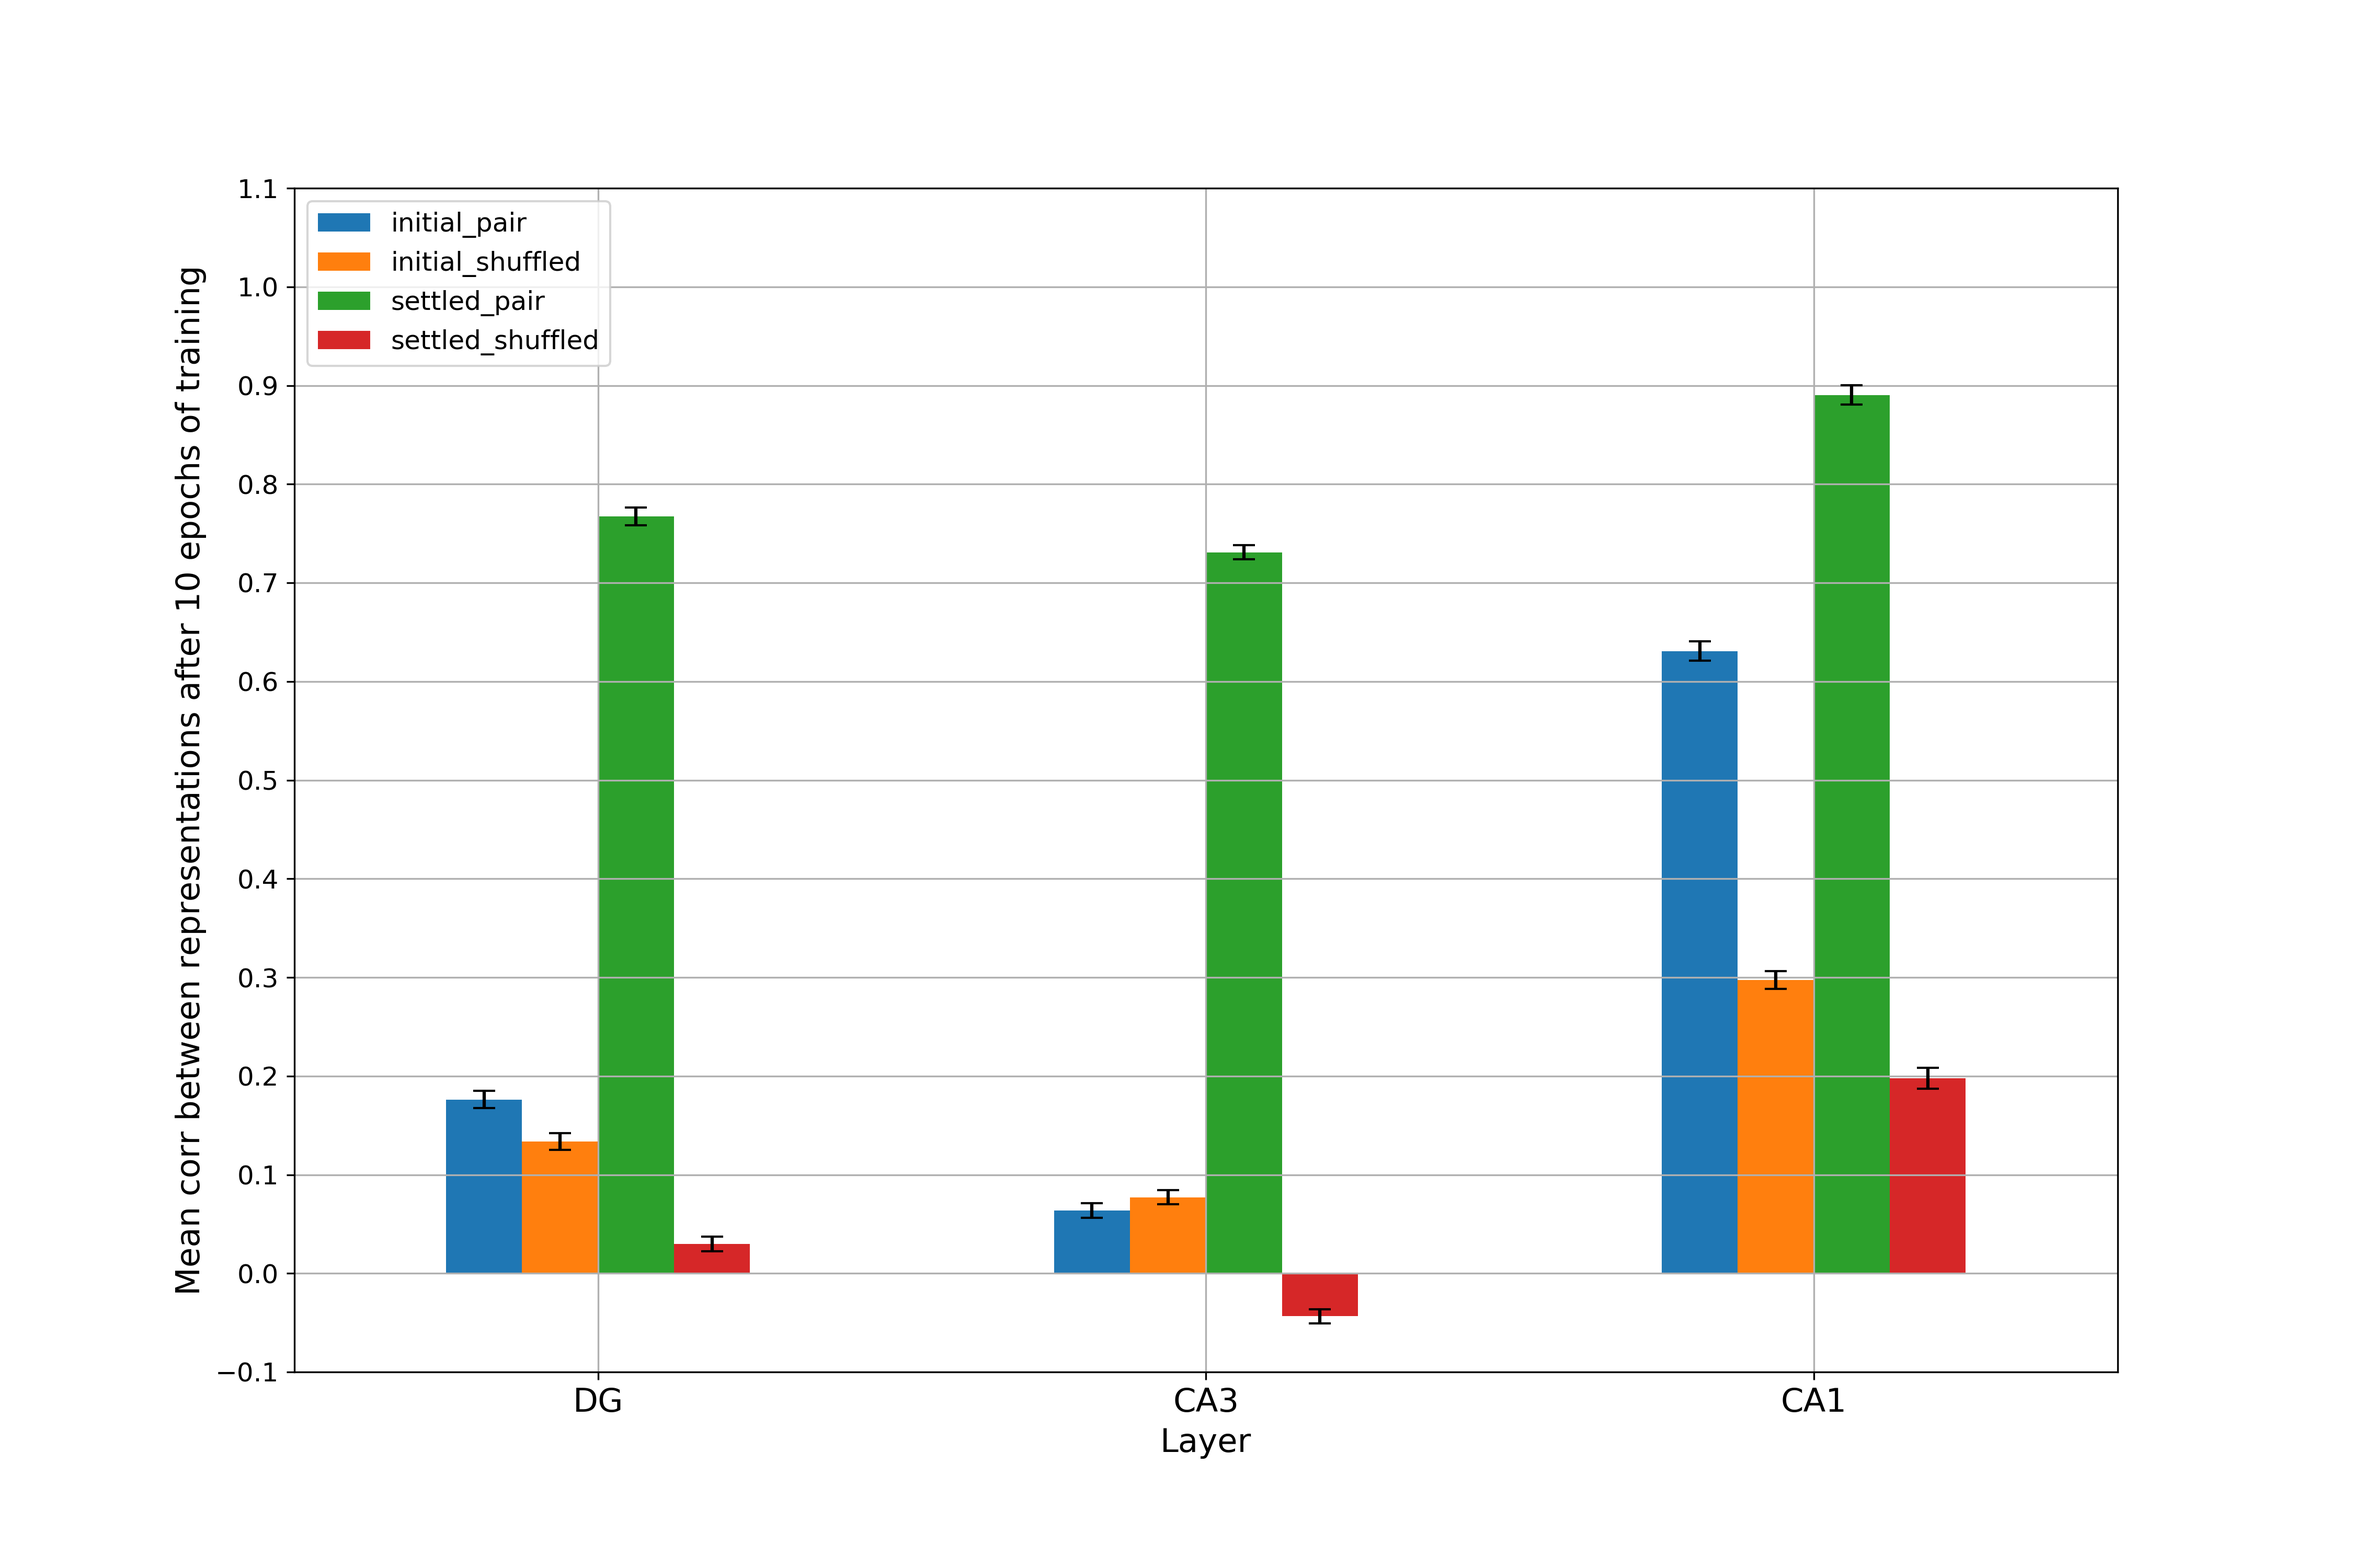
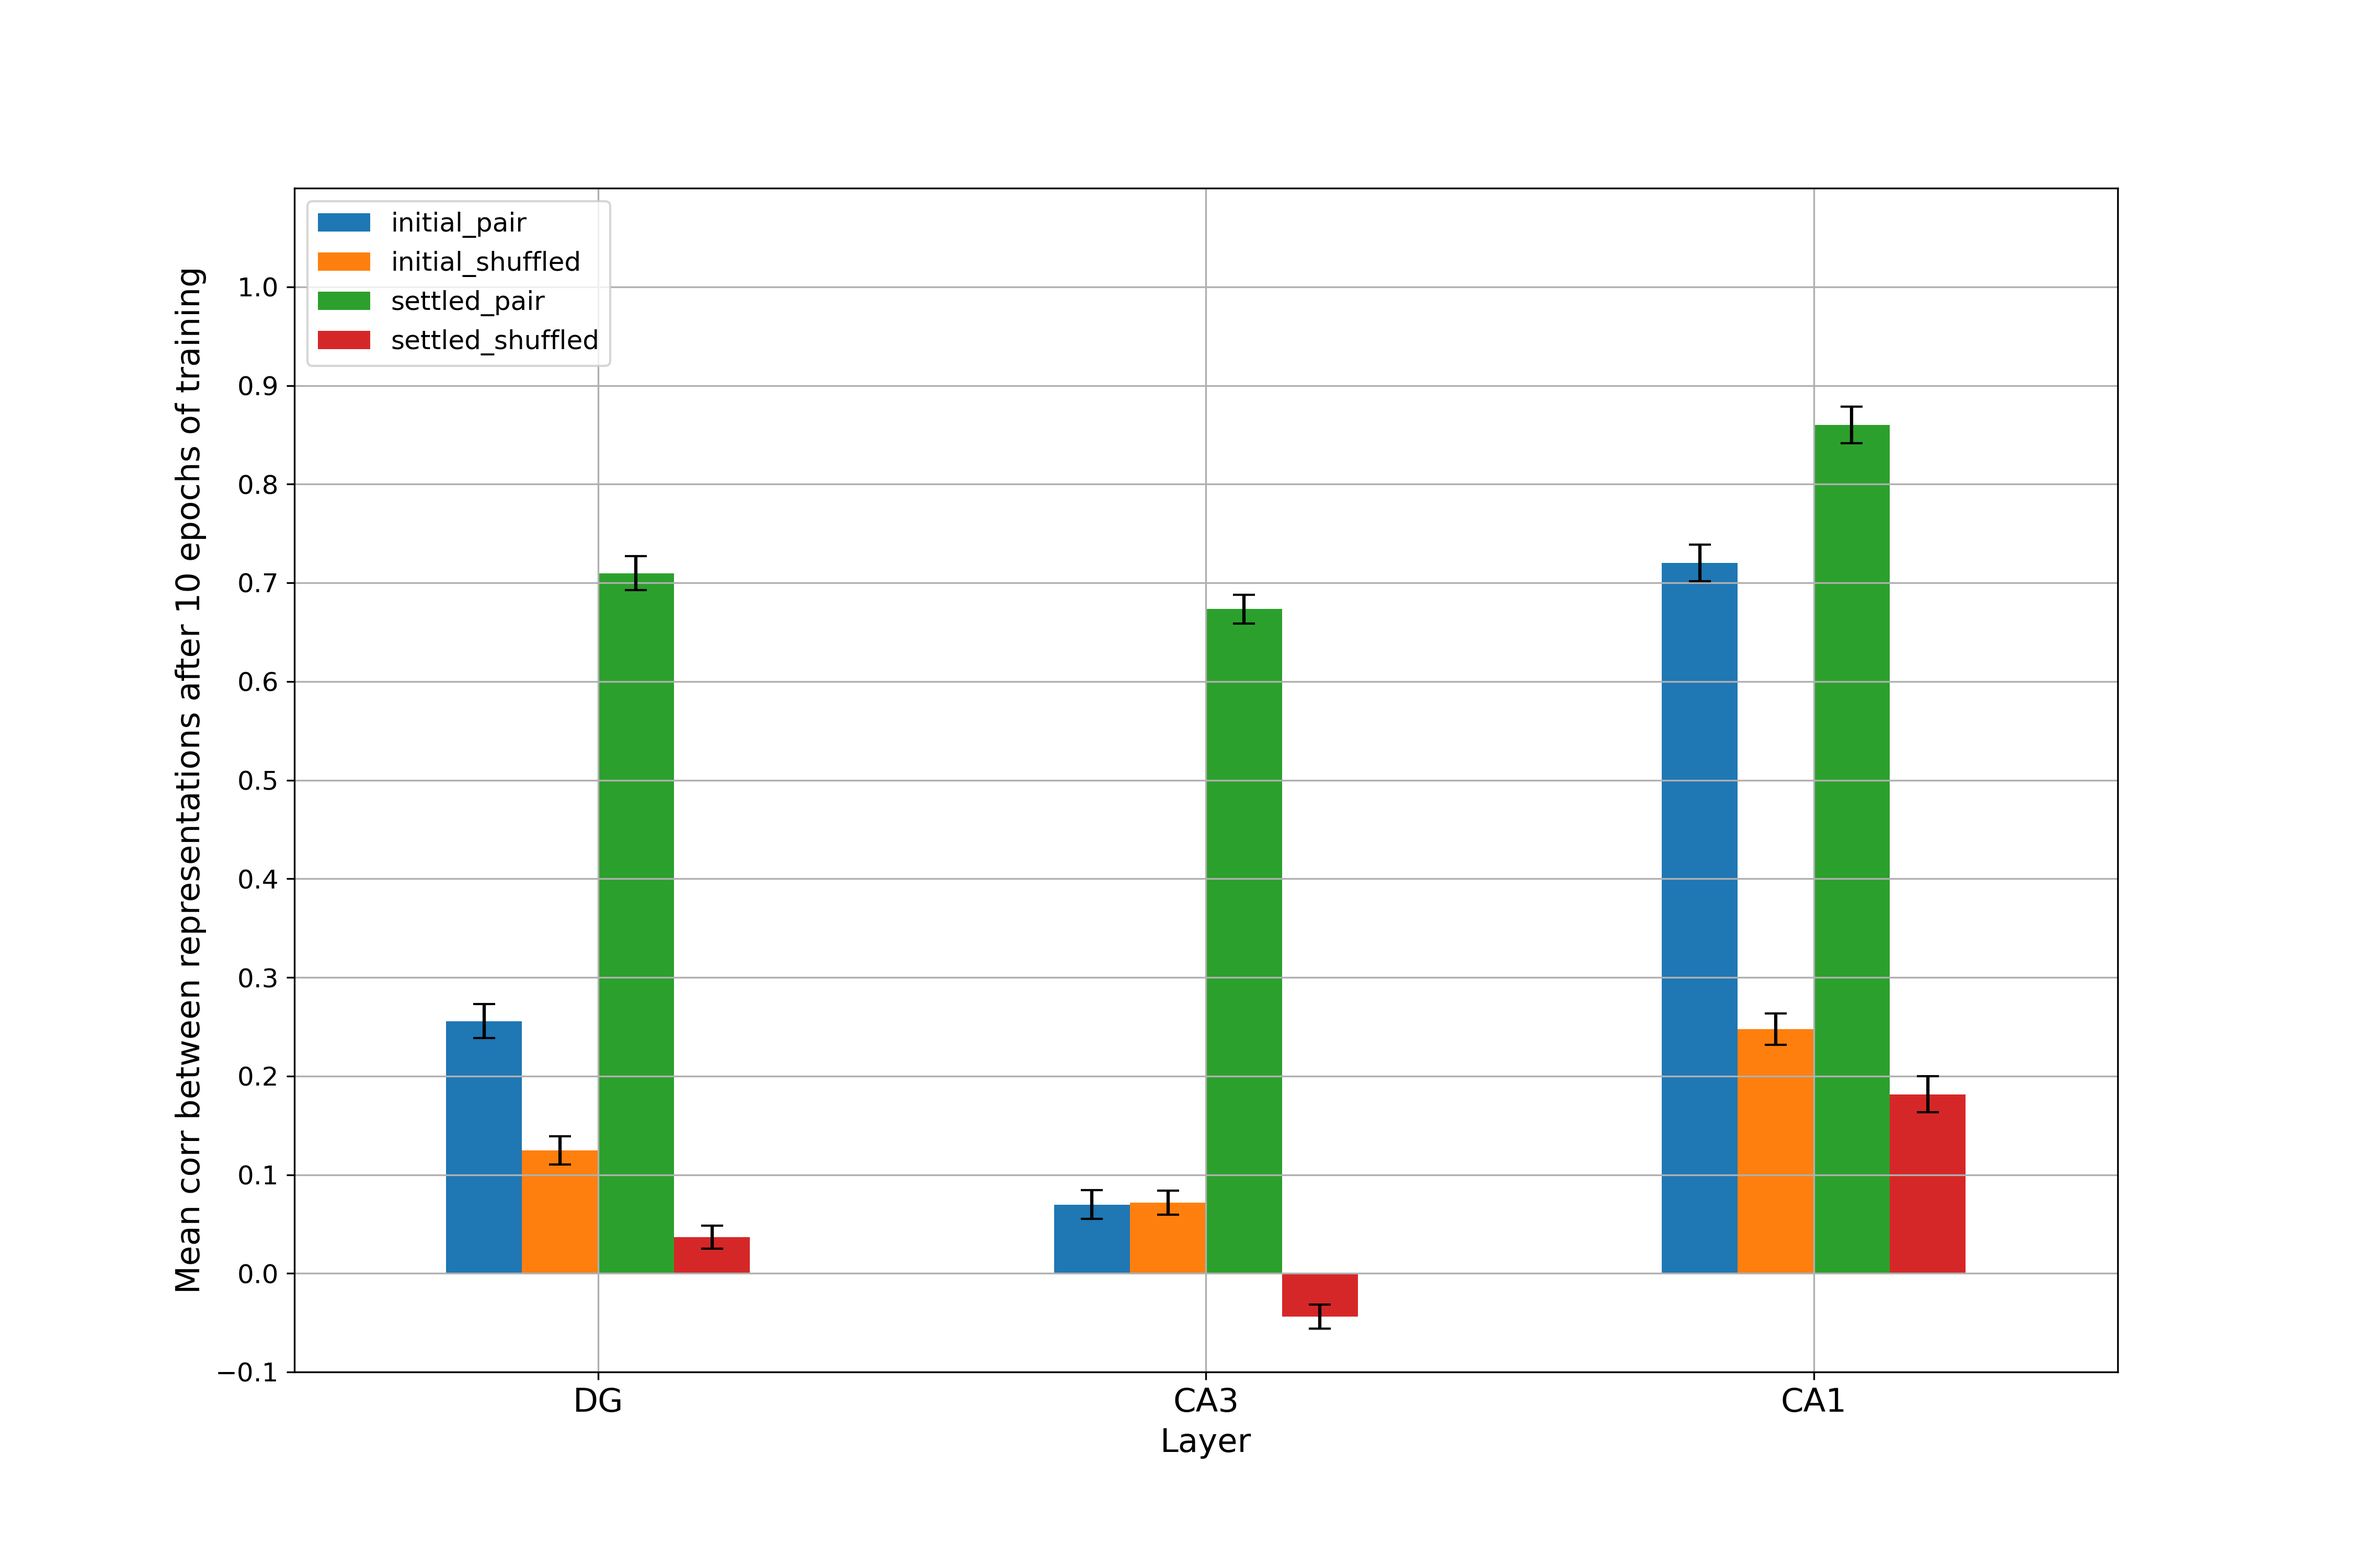
Fix for model connectivity issues during train and test
Fixed (1) dual ca3 -> ca1 pathways (this pathway was erroneously duplicated in ConfigNet) and (2) CA3 -> CA1 was off during test; now it is on alongside ECin -> CA1 on during test. An additional parameter change is made increasing ca1FmECin.WtScale.Abs from 1 to 3 during test. These implemented changes maintain the same performance as before. Note that this model is optimized for performance on the statistical learning task from Schapiro et al., 2017 and the ca1FmECin.WtScale.Abs change is necessary for that. The change could in theory impact performance on episodic memory tasks, which were not investigated here.

diff --git a/hip-sl.go b/hip-sl.go
@@ -282,9 +282,6 @@ func (ss *Sim) ConfigNet(net *leabra.Network) {
 	path := prjn.NewUnifRnd()
 	path.PCon = 0.25
 
-	pj = net.ConnectLayersPrjn(ca3, ca1, path, emer.Forward, &hip.CHLPrjn{})
-	pj.SetClass("HippoCHL")
-
 	pj = net.ConnectLayersPrjn(ecin, dg, ppath, emer.Forward, &hip.CHLPrjn{})
 	pj.SetClass("HippoCHL")
 
@@ -394,7 +391,6 @@ func (ss *Sim) AlphaCyc(train bool) {
 	ecout := ss.Net.LayerByName("ECout").(leabra.LeabraLayer).AsLeabra()
 	ca1FmECin := ca1.SendName("ECin").(*hip.EcCa1Prjn)
 	ca1FmCa3 := ca1.SendName("CA3").(*hip.CHLPrjn)
-	ecoutFmCa1 := ecout.SendName("CA1").(*hip.EcCa1Prjn)
 
 	// First Quarter: CA1 is driven by ECin, not by CA3 recall
 	// (which is not really active yet anyway)
@@ -412,25 +408,16 @@ func (ss *Sim) AlphaCyc(train bool) {
 	}
 	ecout.UpdateExtFlags() // call this after updating type
 
-	// DS: Any train/test changes can go here:
-	if train {
-		ecoutFmCa1.WtScale.Abs = 1
-		//ecout.Inhib.Layer.Gi = 1.8
-		//ecin.Inhib.Layer.Gi = 1.8
-	}
-
-	if !train {
-		ecoutFmCa1.WtScale.Abs = 1
-		//ecout.Inhib.Layer.Gi = 1.6
-		//ecin.Inhib.Layer.Gi = 1.6
-	}
-
 	// First Quarter: CA1 is driven by ECin, not by CA3 recall
 	// (which is not really active yet anyway)
-
 	if train {
 		ca1FmECin.WtScale.Abs = 1
 		ca1FmCa3.WtScale.Abs = 0
+	}
+
+	if !train {
+		ca1FmECin.WtScale.Abs = 3
+		ca1FmCa3.WtScale.Abs = 1
 	}
 
 	ss.Net.AlphaCycInit(train)
@@ -480,13 +467,6 @@ func (ss *Sim) AlphaCyc(train bool) {
 				ss.Net.GScaleFmAvgAct() // update computed scaling factors
 				ss.Net.InitGInc()       // scaling params change, so need to recompute all netins
 			}
-		//if !train {
-		//	ecoutFmCa1.WtScale.Abs = 1
-		//	ecoutFmpCa1.WtScale.Abs = 2
-		//}
-		//if !train {
-		//	ecoutFmCa1.WtScale.Abs = 1
-		//}
 
 		case 3: // Fourth Quarter: CA1 back to ECin drive only
 			if train {
